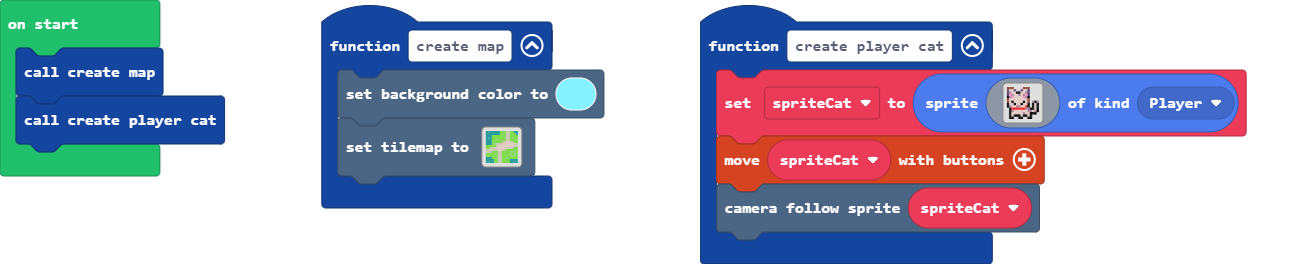
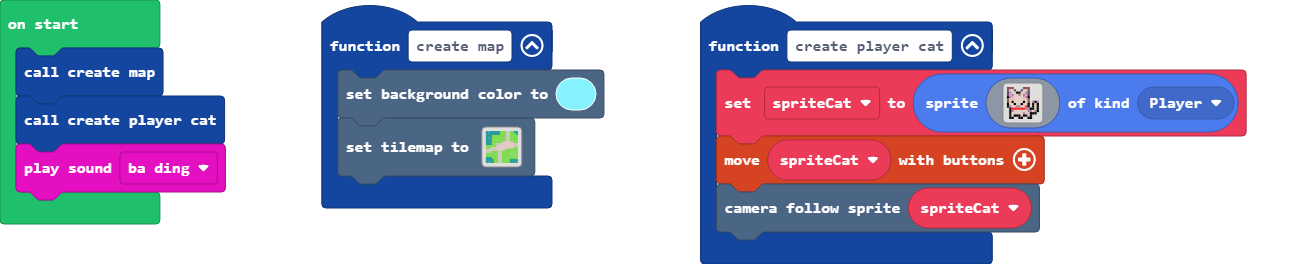
Play a sound on start.

Changed region(s): [[0.0, 0.5152, 0.1849, 0.8788]]

diff --git a/main.ts b/main.ts
@@ -10,3 +10,4 @@ function create_map () {
 let spriteCat: Sprite = null
 create_map()
 create_player_cat()
+music.baDing.play()
